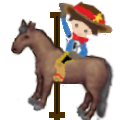
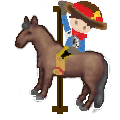
Horse can move now

diff --git a/albertAndSimon/game.js b/albertAndSimon/game.js
@@ -4,27 +4,210 @@ const levels =  [
  	"fenceside", "rock", "", "", "rider",
  	"", "tree", "animate", "animate", "animate",
  	"", "water", "", "", "", 
- 	"", "fence", "", "horseup", "" ], 
+ 	"", "fencetop", "", "horseup", "" ], 
 
  	//level 1
  	["tree", "tree", "flag", "tree", "tree",
  	"animate", "animate", "animate", "animate", "animate",
  	"water", "bridge", "water", "water", "water", 
- 	"", "", "", "fence", "", 
+ 	"", "", "", "fencetop", "", 
  	"rider", "rock", "", "", "horseup"]
 
 
  	 ];
 
 const gridBoxes = document.querySelectorAll("#gameBoard div"); 
+const noPassObstacles = ["rock", "tree", "water"]; 
+
+
 var currentLevel = 0; //starting level
 var riderOn = false; //is the rider on
-var currenLocationOfHorse = 0;
+var currentLocationOfHorse = 0;
 var currentAnimation; // allows 1 animation per level
+var widthOfBoard = 5;
 
+
+//start game
 window.addEventListener("load", function() {
 	loadLevel(); 
 }); 
+
+//move horse
+document.addEventListener("keydown", function(e) {
+
+	switch (e.keyCode) {
+		case 37: //left arrow
+			if (currentLocationOfHorse % widthOfBoard !== 0) {
+				tryToMove("left"); 
+			} //if 
+			break;
+		case 38: // up arrow
+			if (currentLocationOfHorse - widthOfBoard >= 0) {
+				tryToMove("up");
+			}
+			break; 
+		case 39: // right arrow
+			if (currentLocationOfHorse % widthOfBoard < widthOfBoard - 1) {
+				tryToMove("right"); 
+			} //if
+			break;
+		case 40: // down arrow
+			if (currentLocationOfHorse + widthOfBoard < widthOfBoard * widthOfBoard) {
+				tryToMove("down");
+			} //if
+			break;
+	} //switch
+
+}); //key event listener
+
+
+//try to move horse
+function tryToMove(direction) {
+	
+	//lovation before move
+	let oldLocation = currentLocationOfHorse;
+
+	//class of location before move
+	let oldClassName = gridBoxes[oldLocation].className; 
+
+	let nextLocation = 0; // location we wish to move to
+	let nextClass = ""; // class of location we wish to move to
+
+	let nextLocation2 = 0; 
+	let nextClass2 = "";
+
+	let newClass = ""; // new class to switch to if move successful
+
+	switch (direction) {
+		case "left":
+			nextLocation = currentLocationOfHorse - 1; 
+			break; 
+		case "right":
+			nextLocation = currentLocationOfHorse + 1; 
+			break; 
+		case "up":
+			nextLocation = currentLocationOfHorse - widthOfBoard; 
+			break; 
+		case "down":
+			nextLocation = currentLocationOfHorse + widthOfBoard;  
+			break; 
+
+	} //switch 
+
+	nextClass = gridBoxes[nextLocation].className; 
+
+	// if the obstacle is not passable, don't move 
+	if(noPassObstacles.includes(nextClass)) { return; }
+
+	//if it's a fence and there is no rider, don't move
+	if(!riderOn && nextClass.includes("fence")) { return; }
+
+	// if there is a fence, move two spaces with animation
+	if(nextClass.includes("fence")) {
+
+		if(riderOn) {
+			gridBoxes[currentLocationOfHorse].className = "";
+			oldClassName = gridBoxes[nextLocation].className;
+
+			//set values according to direction
+			if (direction == "left") {
+				nextClass = "horsejumpleft";
+				nextClass2 = "horseriderleft";
+				nextLocation2 = nextLocation - 1;
+			} else if (direction == "right") {
+				nextClass = "horsejumpright";
+				nextClass2 = "horseriderright";
+				nextLocation2 = nextLocation + 1;
+			} else if (direction == "up") {
+				nextClass = "horsejumpup";
+				nextClass2 = "horseriderup";
+				nextLocation2 = nextLocation - widthOfBoard;
+			} else if (direction == "down") {
+				nextClass = "horsejumpdown";
+				nextClass2 = "horseriderdown";
+				nextLocation2 = nextLocation + widthOfBoard;
+			} //if
+
+			//show horse jumping over fence
+			gridBoxes[nextLocation].className = nextClass;
+
+			setTimeout(function() {
+
+				//set jump back to just a fence
+				gridBoxes[nextLocation].className = oldClassName;
+
+				//update current location of horse to be 2 spaces past where it jumps
+				currentLocationOfHorse = nextLocation2;
+
+				//get class of box after jump
+				nextClass = gridBoxes[currentLocationOfHorse].className;
+
+				//show horse and rider after landing
+				gridBoxes[currentLocationOfHorse].className = nextClass2;
+
+				// if next box is a flag, go up a level
+				levelUp(nextClass); 
+
+			}, 350);
+
+			return;
+
+		}//if horse has rider
+
+	}//if class has fence
+
+	// if there is a rider in the next space, add rider
+	if(nextClass == "rider") {
+		riderOn = true;
+	} //if
+
+	// if there is a bridge in the old location keep it
+	if (oldClassName.includes("bridge")) {
+		gridBoxes[oldLocation].className = "bridge";
+	} else {
+		gridBoxes[oldLocation].className = "";
+	} //else
+
+	// build name of new class
+	newClass = (riderOn) ? "horserider" : "horse"; 
+	newClass += direction;
+
+	// if there is a bridge in the new location, keep it
+	if(gridBoxes[nextLocation].classList.contains("bridge")) {
+		newClass += " bridge";
+	} //if
+
+	// move the horse one space
+	currentLocationOfHorse = nextLocation;
+	gridBoxes[currentLocationOfHorse].className = newClass;
+
+	// if the new space is an enemy, end game
+	if (nextClass.includes("enemy")) {
+		document.getElementById("lose").style.display = "block";
+		return;
+		//end game function
+	} //if
+
+	// if a flag is hit, move up a level	
+	levelUp(nextClass);
+
+} //try to move
+
+//move up a level
+function levelUp(nextClass) {
+	if (nextClass == "flag" && riderOn) {
+		document.getElementById("levelup").style.display = "block";
+		clearTimeout(currentAnimation);
+		setTimeout(function () {
+			document.getElementById("levelup").style.display = "none";
+			currentLevel++;
+			loadLevel();
+		}, 1000);
+
+	} //if
+
+} //levelUp
+
 
 
 //load level 0 - maxlevel
@@ -36,7 +219,7 @@ function loadLevel() {
 	// load board
 	for (i = 0; i < gridBoxes.length; i++) {
 		gridBoxes[i].className = levelMap[i]; 
-		if (levelMap[i].includes("horse")) currenLocationOfHorse = i;
+		if (levelMap[i].includes("horse")) currentLocationOfHorse = i;
 	} //fo
 
 	animateBoxes = document.querySelectorAll(".animate"); 

diff --git a/albertAndSimon/style.css b/albertAndSimon/style.css
@@ -62,6 +62,10 @@ body {
 	background-image: url("images/horseleft.png");
 }
 
+.horseright {
+	background-image: url("images/horseright.png");
+}
+
 .horseriderup {
 	background-image: url("images/horseriderup.png");
 }
@@ -108,6 +112,25 @@ body {
 .bridge {
 	background-color: #800020 !important; 
 
+}
+
+.message {
+
+	 /***** From lightbox.css *****/
+	position: fixed;
+	top: 0px;
+	left: 0px;
+	width: 100%;
+	height: 100%;
+	background-color: rgba(0,0,0,0.8); 
+	/***** END lightbox.css code *****/
+	display: none;
+	color: white;
+	font-family: Verdana, sans-serif;
+	font-size: 8em;
+	vertical-align: top;
+	text-align: center;
+	line-height: 100vh;
 }
 
 

diff --git a/albertAndSimon/index.html b/albertAndSimon/index.html
@@ -44,8 +44,12 @@
       
 
     </div> 
- 
 
+
+    <div class="message" id="lose">You Lose</div>
+    <div class="message" id="levelup">Next level...</div>
+
+ 
     <script src="game.js"></script>
   </body>
   
